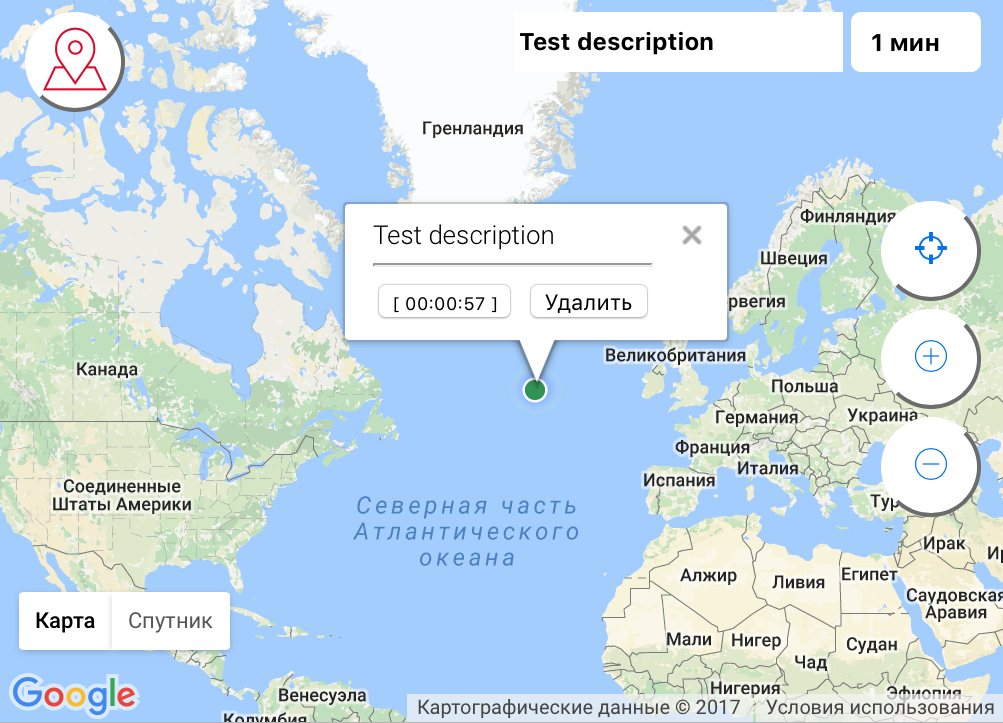
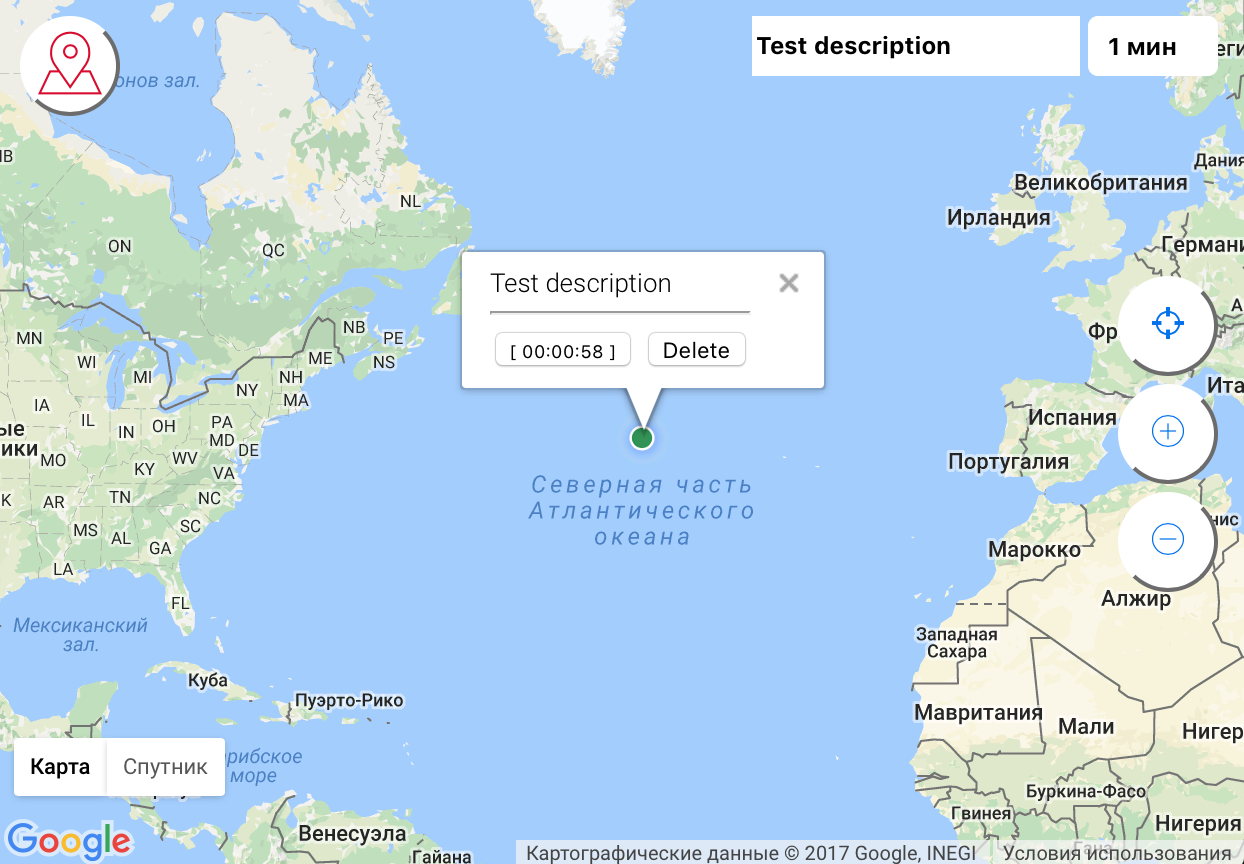
1

diff --git a/examples/heatmap.html b/examples/heatmap.html
@@ -839,7 +839,7 @@ function infoFromPosition(position) {
   }
   
   if (obj.sender == senderId || obj.session == sessionId) {
-    content += "<button onclick=\"op_delete_marker('" + key + "')\">Удалить</button>";
+    content += "<button onclick=\"op_delete_marker('" + key + "')\">Delete</button>";
   }
   content += '</div>';
   
